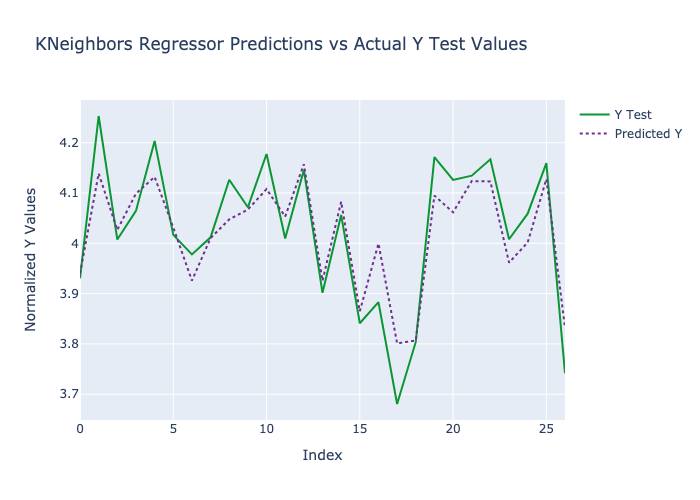
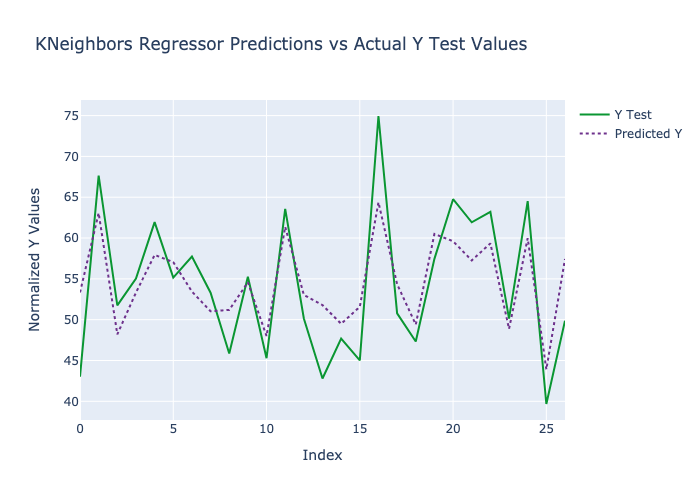
Additional improvements

diff --git a/code/model.py b/code/model.py
@@ -119,7 +119,7 @@ class RegressionModel():
     def display(self, model_name):
         # Create the trace for Actual Y Test values.
         trace0 = go.Scatter(
-            y=self.y_test, 
+            y=np.exp(self.y_test), 
             x=np.arange(len(self.y_test)), 
             mode='lines', 
             name='Y Test', 
@@ -130,7 +130,7 @@ class RegressionModel():
 
         # Create the trace for the Y Test Predictions.
         trace1 = go.Scatter(
-            y = self.y_test_predictions,
+            y = np.exp(self.y_test_predictions),
             x = np.arange(len(self.y_test_predictions)),
             mode='lines',
             name='Predicted Y',
